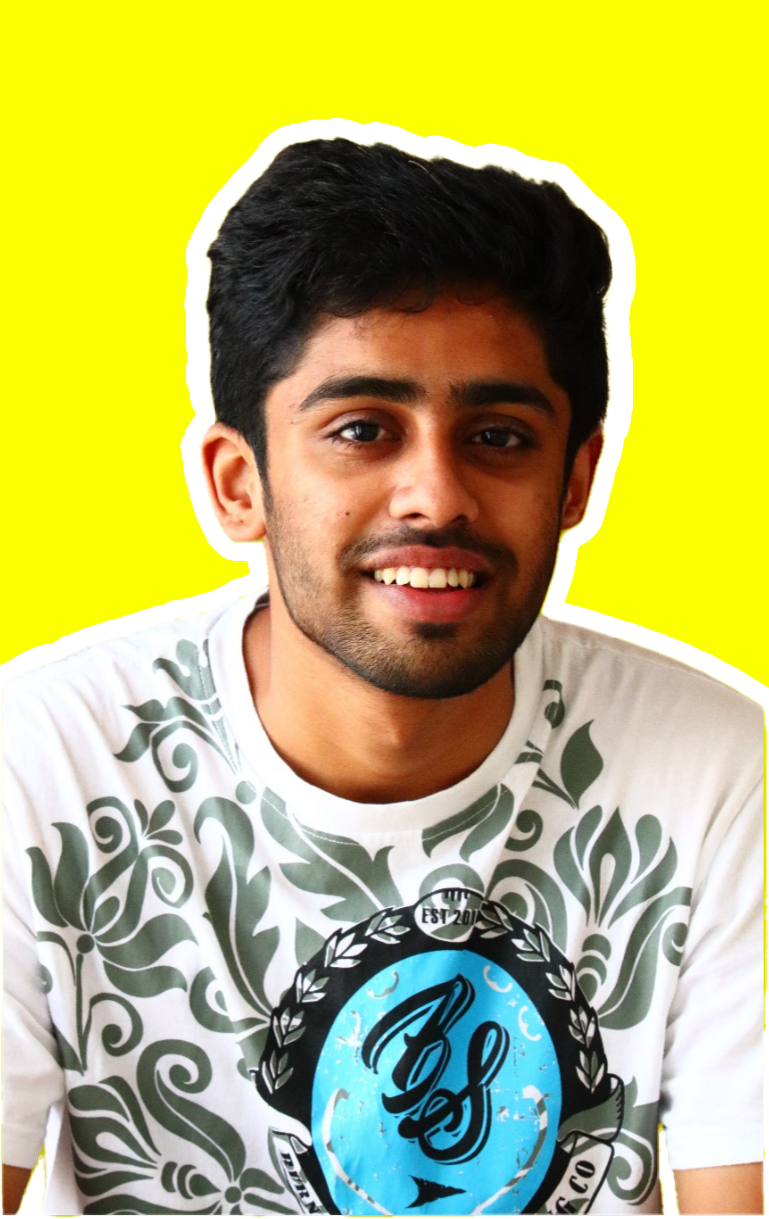
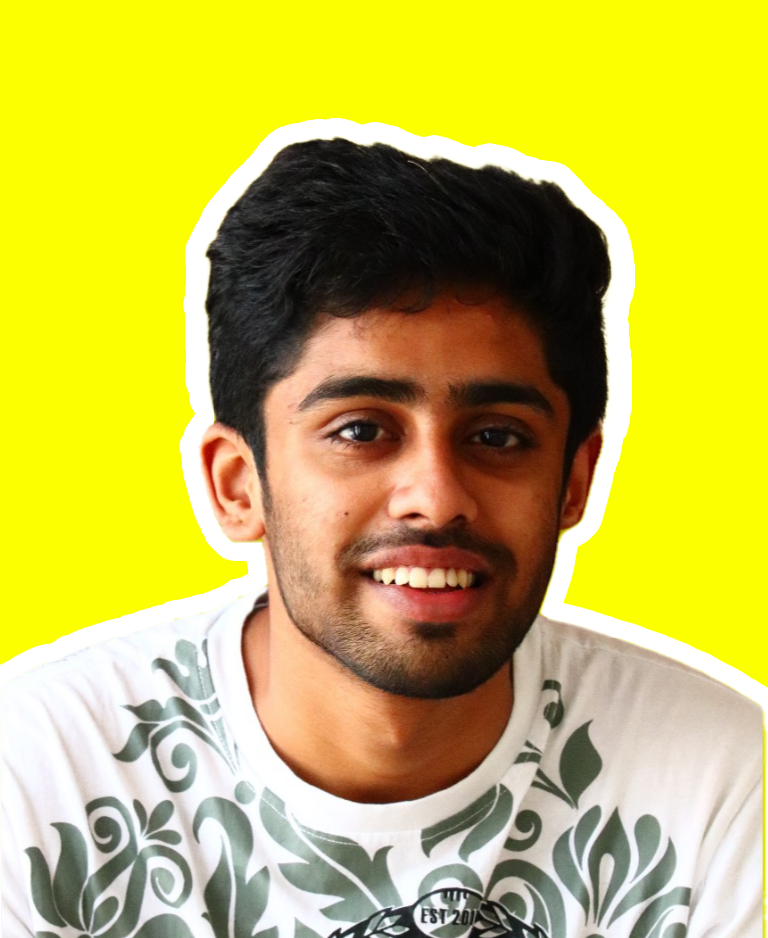
resume image

diff --git a/index.html b/index.html
@@ -47,9 +47,9 @@
             </div>
         </div>
 
-        <div class="home-img" style="width: 500px;height: 500px; position: relative;">
-            <img src="./Rithik.png" style="border-radius:50% ;   width: 100%;
-            height: 100%; object-fit: cover; top: 20px; " alt="">
+        <div class="home-img" style="width: 800px;height: 800px; position: relative; display: flex; justify-content: center; align-items: flex-start;">
+            <img src="./Rithik.png" style="border-radius:60%;  position: absolute; top: 0%;left: 0; right: 0; margin: auto; transform: translateY(10%); overflow: hidden;  width: 100%;
+            height: 100%; object-fit: cover; " alt="">
         </div>
     </section>
 
